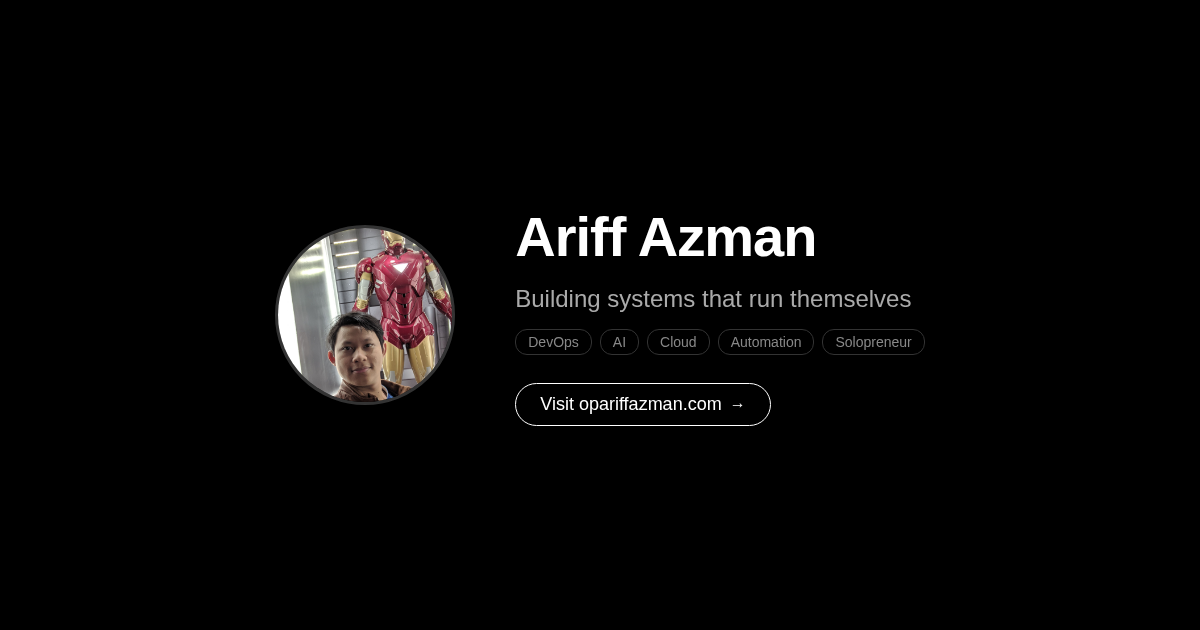
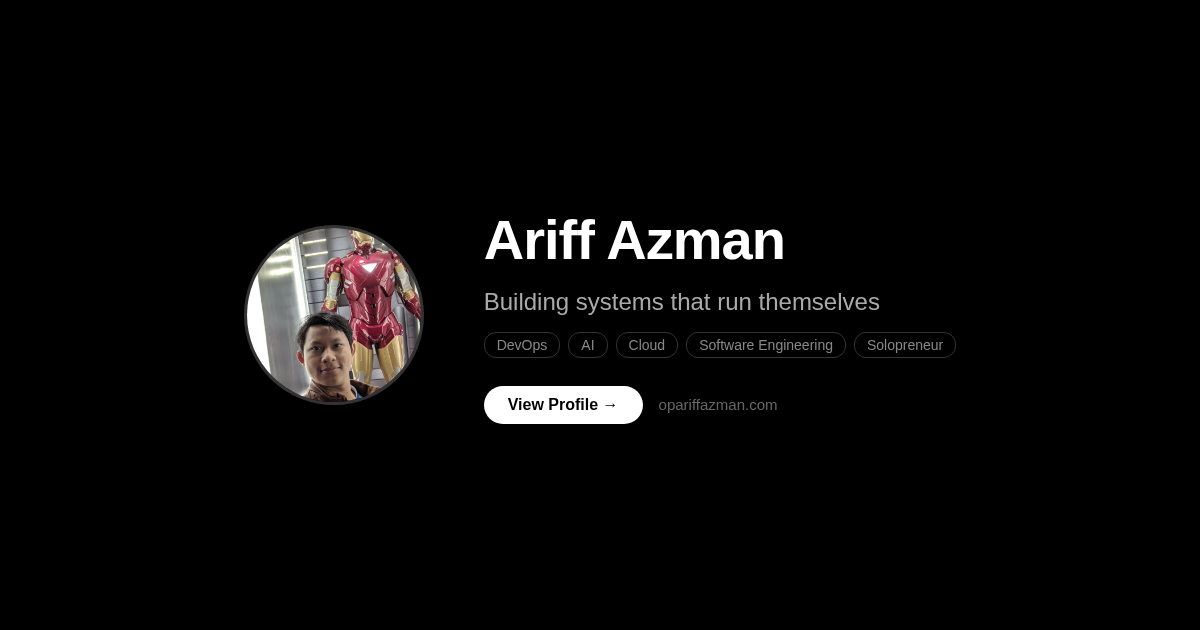
fix: View Profile CTA in OG image, add Software Engineering to description

Changed region(s): [[0.185, 0.3317, 0.8017, 0.6635], [0.4008, 0.3317, 0.6783, 0.4222], [0.4008, 0.6032, 0.6475, 0.6937]]

diff --git a/index.html b/index.html
@@ -4,15 +4,15 @@
   <meta charset="utf-8">
   <meta name="viewport" content="width=device-width, initial-scale=1">
   <title>Ariff Azman | Building systems that run themselves</title>
-  <meta name="description" content="DevOps &amp; AI Trainer, MBOT Certified Technologist. Solopreneur behind Double A Digital, Malaysia.">
+  <meta name="description" content="Software Engineer, DevOps &amp; AI Trainer, MBOT Certified Technologist. Solopreneur behind Double A Digital.">
   <meta property="og:title" content="Ariff Azman | Building systems that run themselves">
-  <meta property="og:description" content="DevOps &amp; AI Trainer, MBOT Certified Technologist. Solopreneur behind Double A Digital, Malaysia.">
+  <meta property="og:description" content="Software Engineer, DevOps &amp; AI Trainer, MBOT Certified Technologist. Solopreneur behind Double A Digital.">
   <meta property="og:image" content="https:&#x2F;&#x2F;opariffazman.com&#x2F;og-image.png">
   <meta property="og:url" content="https://opariffazman.com">
   <meta property="og:type" content="profile">
   <meta name="twitter:card" content="summary_large_image">
   <meta name="twitter:title" content="Ariff Azman | Building systems that run themselves">
-  <meta name="twitter:description" content="DevOps &amp; AI Trainer, MBOT Certified Technologist. Solopreneur behind Double A Digital, Malaysia.">
+  <meta name="twitter:description" content="Software Engineer, DevOps &amp; AI Trainer, MBOT Certified Technologist. Solopreneur behind Double A Digital.">
   <meta name="twitter:image" content="https:&#x2F;&#x2F;opariffazman.com&#x2F;og-image.png">
   <link rel="canonical" href="https://opariffazman.com">
   <link rel="icon" type="image/png" href="opariffazman.png">
